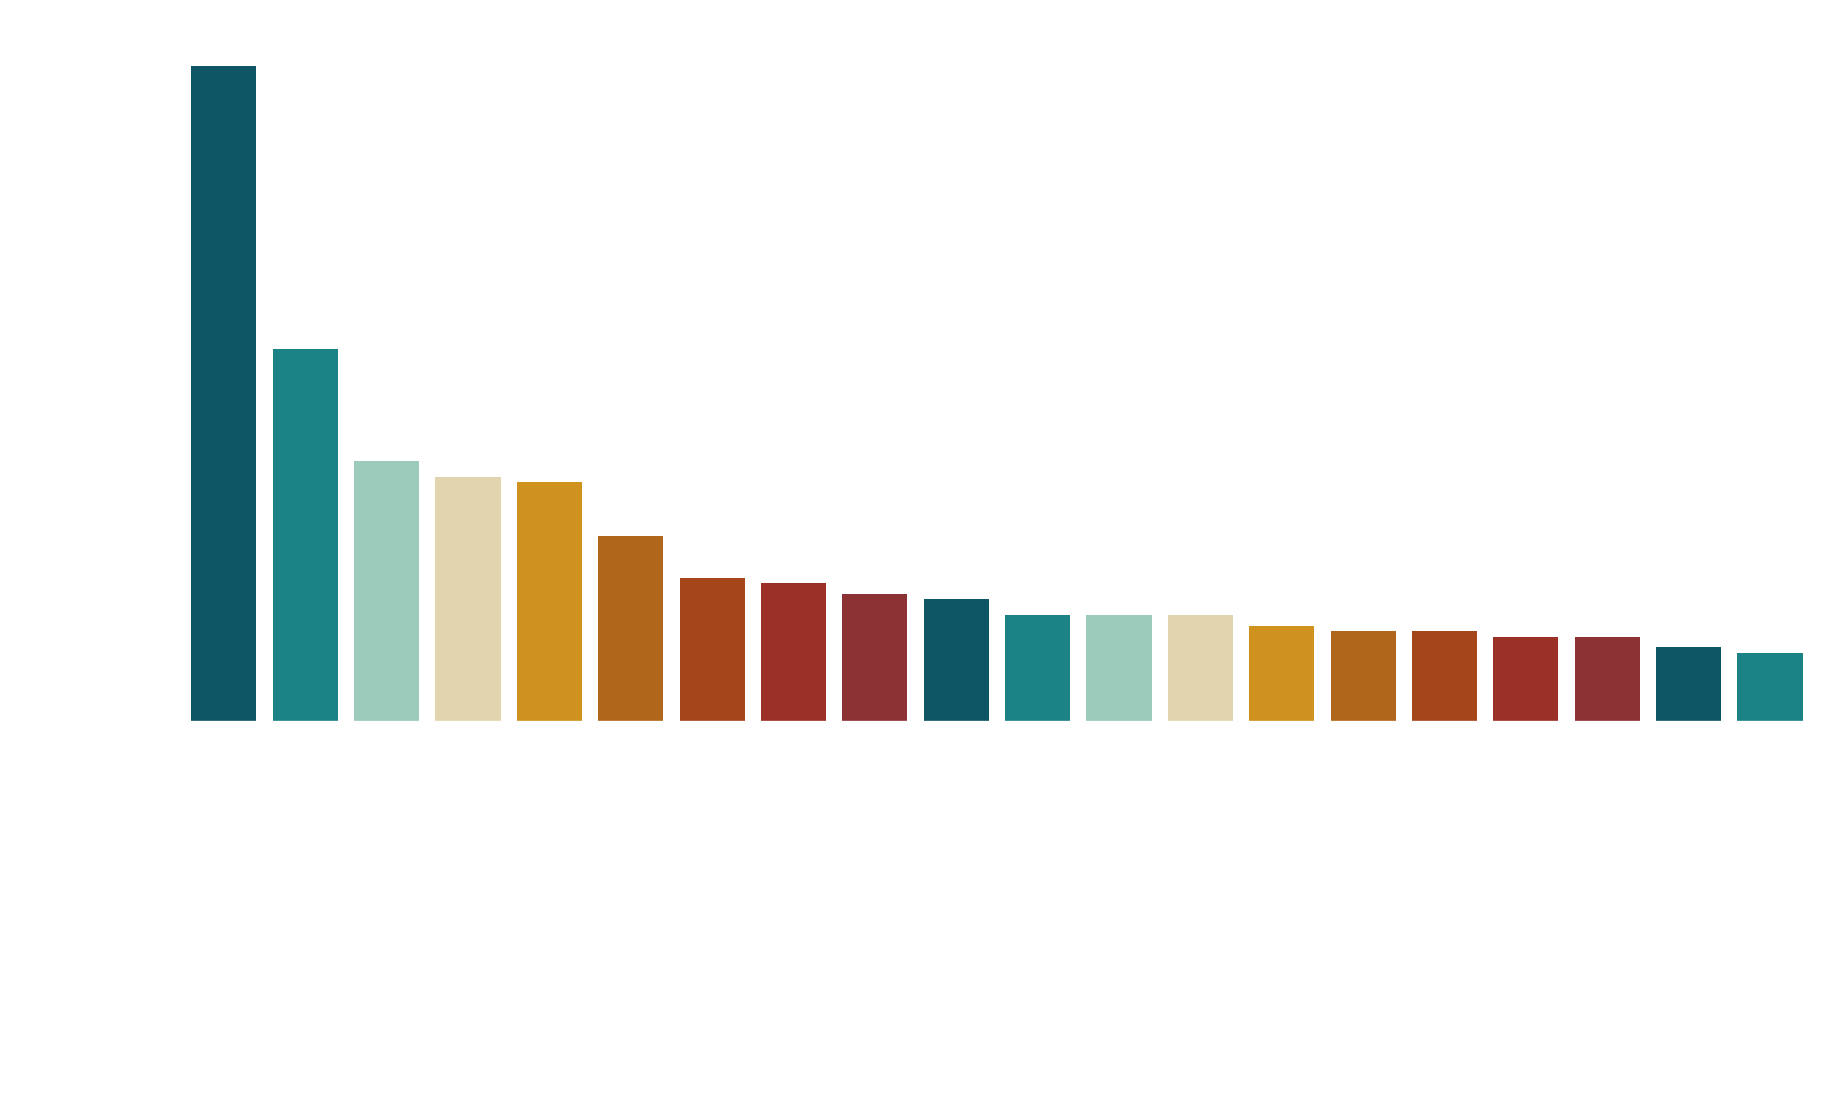
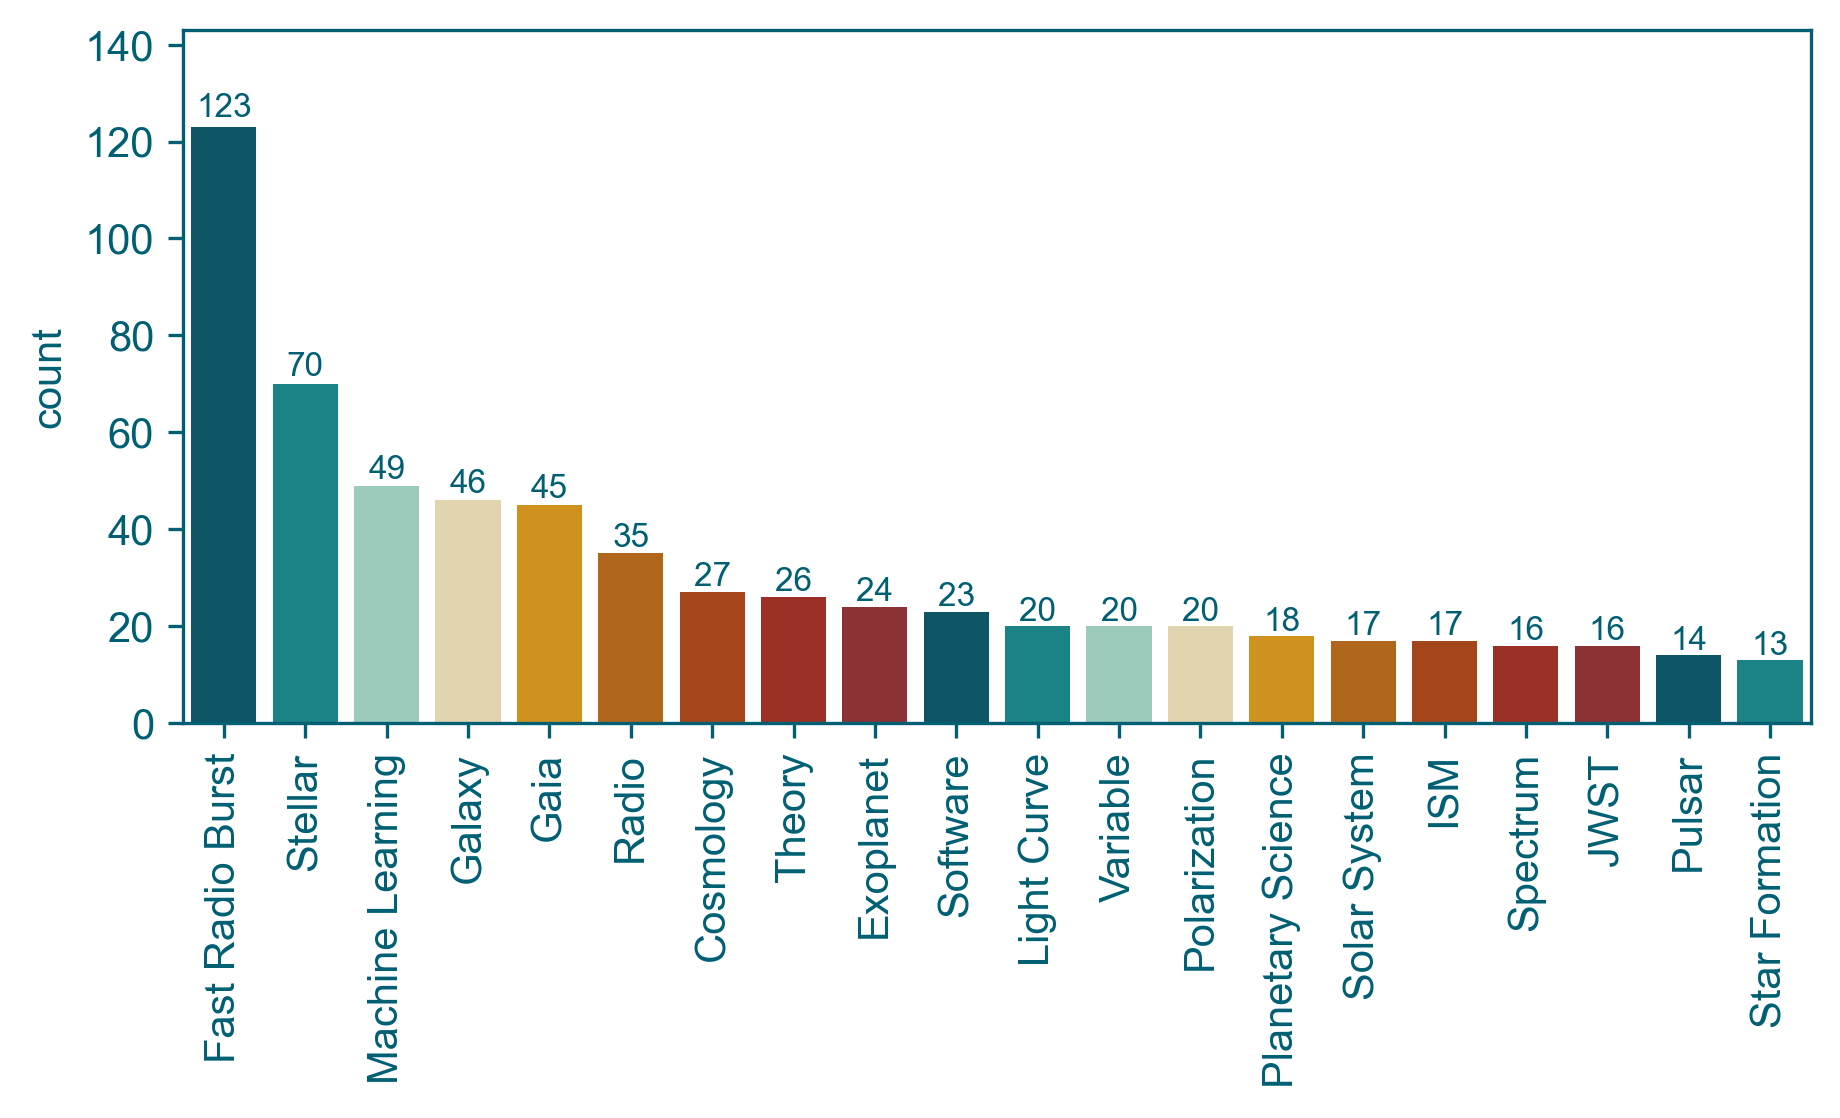
Update ReadMe

diff --git a/Status/status.py b/Status/status.py
@@ -35,20 +35,20 @@ color_list = [
 def x2_func(x, a, b, c):
     return a * x** b + c
 
-def convert_white(ax):
-    ax.tick_params(axis='x', colors='white', which='both')
-    ax.tick_params(axis='y', colors='white', which='both')
-    ax.spines['top'].set_color('white')
-    ax.spines['bottom'].set_color('white')
-    ax.spines['left'].set_color('white')
-    ax.spines['right'].set_color('white')
-    ax.xaxis.label.set_color('white')
-    ax.yaxis.label.set_color('white')
+def convert_white(ax, color='white'):
+    ax.tick_params(axis='x', colors=color, which='both')
+    ax.tick_params(axis='y', colors=color, which='both')
+    ax.spines['top'].set_color(color)
+    ax.spines['bottom'].set_color(color)
+    ax.spines['left'].set_color(color)
+    ax.spines['right'].set_color(color)
+    ax.xaxis.label.set_color(color)
+    ax.yaxis.label.set_color(color)
 
 def plot_arXiv_count():
     data = pd.read_csv('get_monthly_submissions.csv') # https://arxiv.org/stats/monthly_submissions
     popt, _ = curve_fit(x2_func, np.arange(len(data))[:-1], data.submissions[:-1])
-    
+
     plt.figure(figsize=(6, 3))
     ax = plt.subplot(111)
     plt.step(np.arange(len(data)), data.submissions, color='white', lw=0.5)
@@ -119,12 +119,12 @@ def plot_new_count(data):
     plt.figure(figsize=(7, 3))
     ax = plt.subplot(111)
     plt.step(
-        pd.to_datetime(data.drop_duplicates('date').date), 
+        pd.to_datetime(data.drop_duplicates('date').date),
         np.cumsum(data.groupby('date').count().month.values), color=color_list[-1], zorder=0
     )
     plt.scatter(pd.to_datetime(data.date.values[-1]), len(data), color=color_list[1], zorder=1)
     plt.annotate(
-        text=str(len(data)), xy=(pd.to_datetime(data.date.values[-1]), len(data)), 
+        text=str(len(data)), xy=(pd.to_datetime(data.date.values[-1]), len(data)),
         xytext=(pd.to_datetime(data.date.values[-25]), len(data) / 2), weight='bold', color=color_list[1],
         arrowprops=dict(arrowstyle='->', connectionstyle='arc3', color=color_list[1])
     )
@@ -144,7 +144,7 @@ def plot_new_count(data):
     plt.close()
 
 def content_count(data, flag='title'):
-    
+
     if flag == 'title':
         string_all = '\n'.join(data.title.values).lower()
         string_all = re.sub(r'fast radio bursts', 'fast radio burst', string_all)
@@ -154,12 +154,12 @@ def content_count(data, flag='title'):
         string_all = re.sub(r'frb', 'fast_radio_bursts', string_all)
         string_all = re.sub(r'stars', 'star', string_all)
         string_all = re.sub(r'clusters', 'cluster', string_all)
-        
+
         string_list = re.sub('fast_radio_bursts', 'fast radio bursts', string_all)
         string_list = re.sub('milky_way', 'milky way', string_list)
         string_list = string_list.split('\n')
         stop_words_path = 'english.txt'
-        
+
     elif flag=='content':
         string_all, string_list = '', []
         for i in range(len(data)):
@@ -173,7 +173,7 @@ def content_count(data, flag='title'):
             string_list.append(string)
             string_all += string + '\n'
         stop_words_path = 'stop_words.txt'
-    
+
     seg = pkuseg.pkuseg(user_dict='dict.txt', postag=True)
     text = seg.cut(string_all)
     with open(stop_words_path, encoding='utf-8') as f:
@@ -186,7 +186,7 @@ def content_count(data, flag='title'):
     new_text = [re.sub('fast_radio_bursts', 'fast radio bursts', i) for i in new_text]
     new_text = [re.sub('milky_way', 'milky way', i).capitalize() for i in new_text]
     counter = Counter(new_text)
-    
+
     return counter, string_list
 
 def get_keyword_counter(data):
@@ -203,11 +203,11 @@ def plot_word_cloud(counter, flag='title'):
         font_path = 'Font/Canela-Medium-Trial.otf'
     elif flag=='content':
         font_path = 'Font/FZQKBYSJW.TTF'
-    
+
     ######### 词云 #########
     wordcloud = WordCloud(
         font_path = font_path,
-        background_color = "rgba(255, 255, 255, 0)", 
+        background_color = "rgba(255, 255, 255, 0)",
         mode="RGBA",
         prefer_horizontal = 0.7,
         width = 1920,
@@ -216,7 +216,7 @@ def plot_word_cloud(counter, flag='title'):
         margin = 2,
         colormap = ListedColormap(color_list[1:]) # 'Spectral'
     ).generate_from_frequencies(counter)
-    
+
     wordcloud.to_file('Figure/{}.png'.format(flag.capitalize()))
 
 def show_values(axs, orient="v", space=.01):
@@ -226,7 +226,7 @@ def show_values(axs, orient="v", space=.01):
                 _x = p.get_x() + p.get_width() / 2
                 _y = p.get_y() + p.get_height() + (p.get_height()*0.01)
                 value = '{:.0f}'.format(p.get_height())
-                ax.text(_x, _y+1, value, ha="center", color='white', size=8) 
+                ax.text(_x, _y+1, value, ha="center", color=color_list[1], size=8)
         elif orient == "h":
             for p in ax.patches:
                 _x = p.get_x() + p.get_width() + float(space)
@@ -251,12 +251,12 @@ def plot_word_max(counter):
     # font = FontProperties(fname=fname, size=9)
     plt.xticks(rotation=90)
     plt.xlabel('')
-    plt.ylim(0, 130)
-    convert_white(ax)
+    plt.ylim(0, words_max.loc[:, 'count'].max()+20)
+    convert_white(ax, color=color_list[1])
 
     plt.savefig('Figure/KeyCount', dpi=300, bbox_inches='tight', transparent=True)
     plt.close()
-    
+
 def plot_counter_graph(counter, string_list):
 
     words_max = counter.most_common(50)
@@ -295,7 +295,7 @@ def plot_counter_graph(counter, string_list):
        )
        .render("Figure/keyword.html")
     )
-    
+
 if __name__ == '__main__':
     path = '../'
     markdown_path = get_markdown_path(path)
